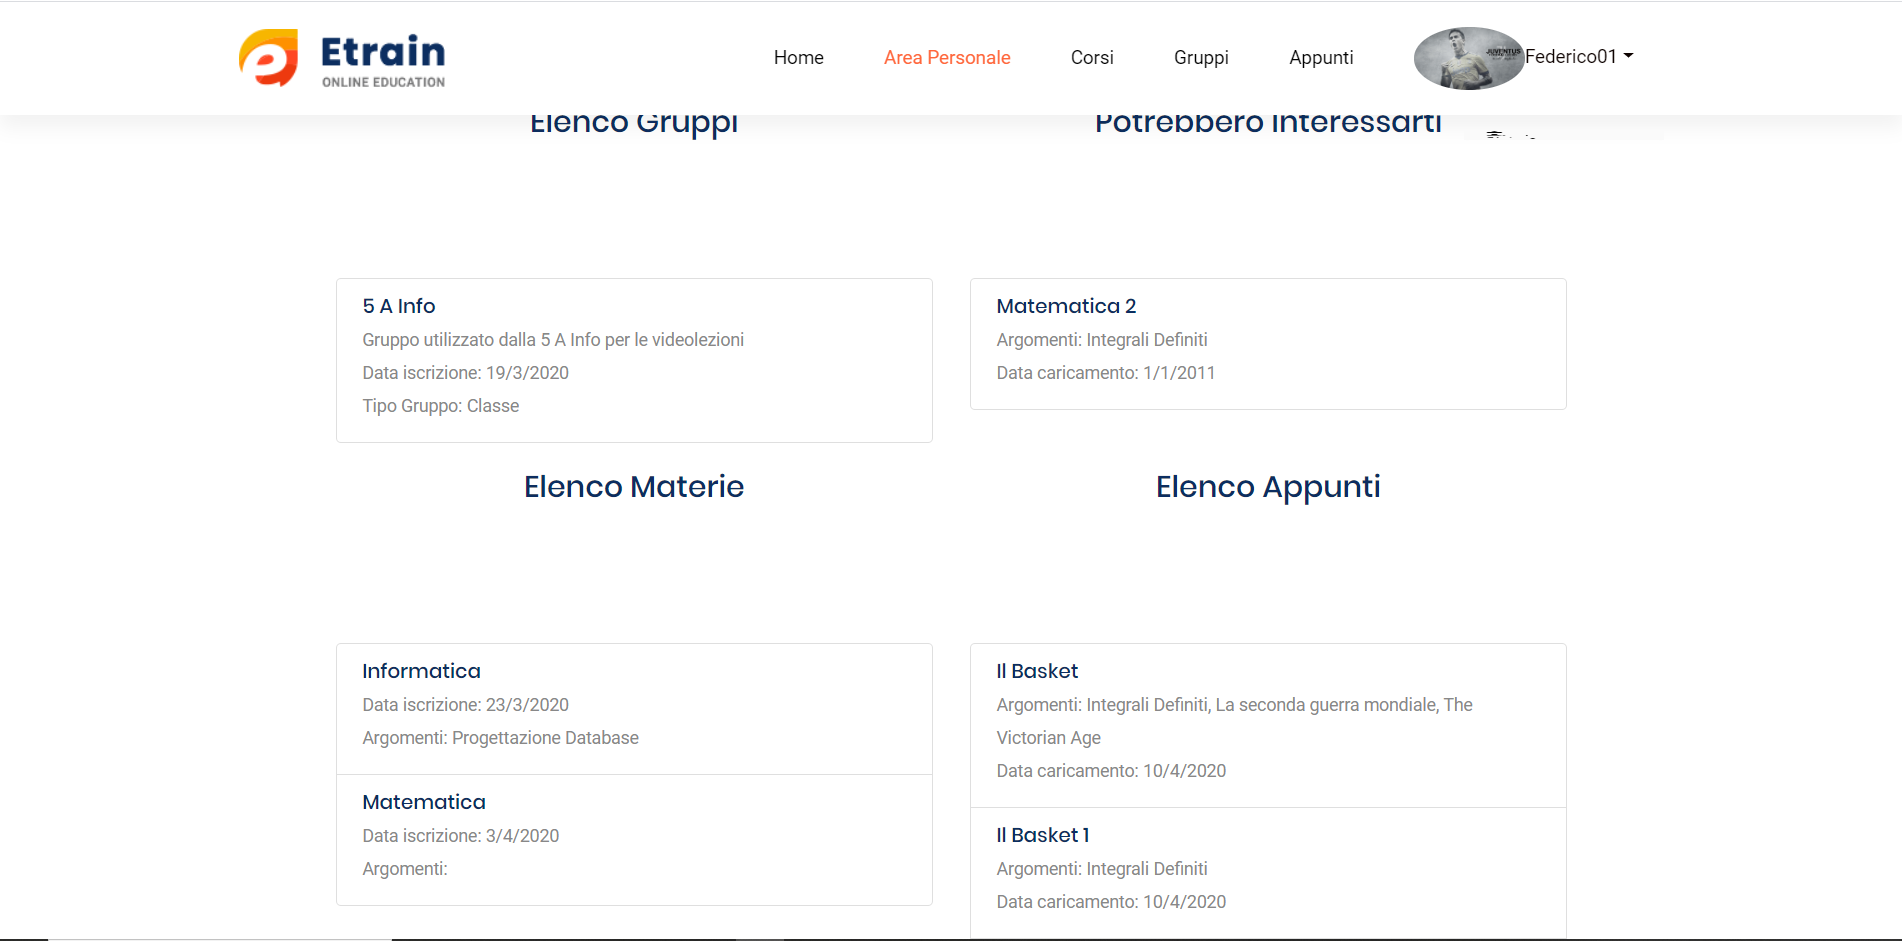
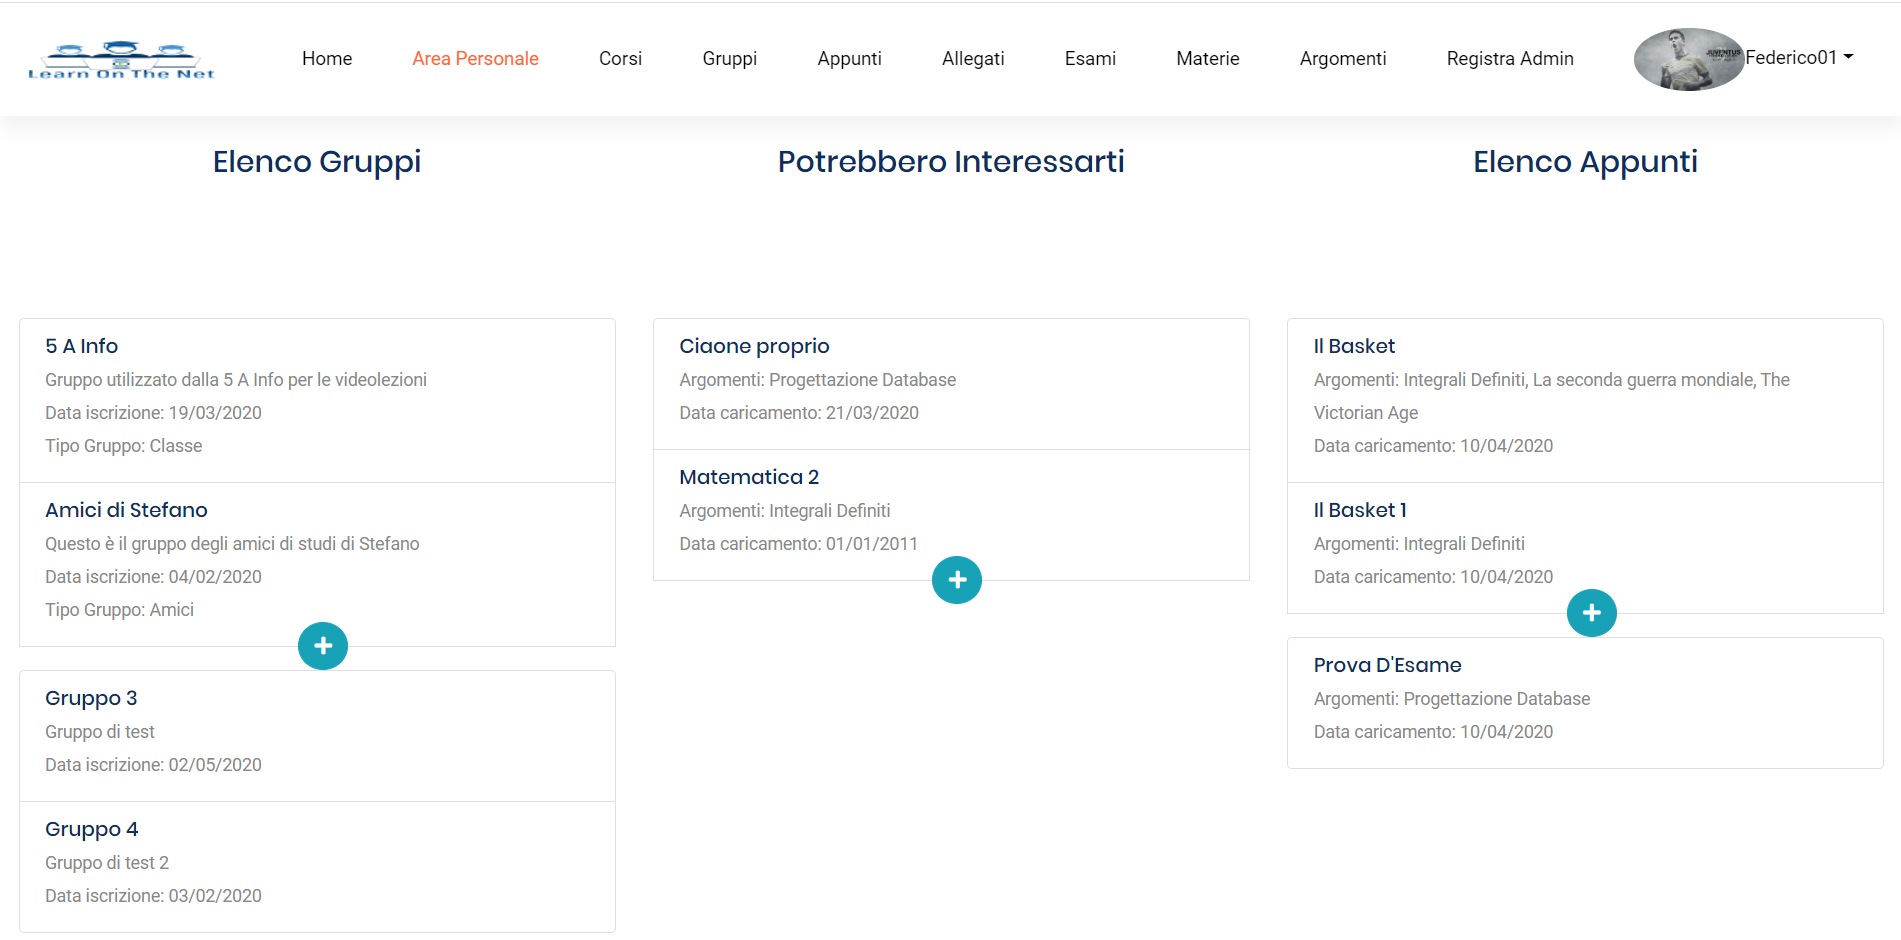
"Revisione README"

diff --git a/static/corsi.html b/static/corsi.html
@@ -181,7 +181,7 @@
                                                 </span>
                                                 <div>
                                                     <select id="tipoModuloAdd" required title="Tipo Modulo" data-live-search="true"
-                                                        data-live-search-placeholder="Cerca Tipo Modulo">
+                                                        data-live-search-placeholder="Cerca Tipo Modulo" data-width="100%">
                                                     </select>
                                                 </div>
                                             </div>
@@ -192,8 +192,8 @@
                                                     <i class="fas fa-book"> </i>
                                                 </span>
                                                 <div>
-                                                    <select id="materiaCorso" required title="Materia" data-live-search="true"
-                                                        data-live-search-placeholder="Cerca Materia">
+                                                    <select id="materiaCorso" class="single-input" required title="Materia" data-live-search="true"
+                                                        data-live-search-placeholder="Cerca Materia" data-width="100%">
                                                     </select>
                                                 </div>
                                             </div>

diff --git a/README.md b/README.md
@@ -1,13 +1,14 @@
 # LearnOnTheNet
 
-![](/Immagini/Home_1.PNG)
+![](/Immagini/Home.PNG)
 
 ## Descrizione:
-Piattaforma di e-learning che consente di seguire, individualmente o come parte di un gruppo, corsi relativi a determinati argomenti. 
+Piattaforma di e-learning che consente di seguire, individualmente o come parte di un gruppo, corsi relativi a determinati argomenti, parte di una serie di materie. 
 Ogni corso può prevedere degli esami finali. 
 Il corso è composto da appunti caricati per ogni materia dagli utenti. 
-Ogni appunto può possedere degli allegati ed è possibile richiedere lettura automatica dell’appunto. 
-Ogni corso è moderato da dei moderatori che hanno il compito di controllare gli appunti e gli allegati caricati sul corso e verificare che siano inerenti all'argomento su cui è incentrato il corso.
+Ogni appunto possiede degli allegati in diversi formati ed è possibile richiedere lettura automatica degli allegati .pdf e .docx 
+Ogni corso è moderato da dei moderatori, impostati dall'organizzazione/community in possesso della piattaforma, che hanno il compito di controllare gli appunti e gli allegati caricati sul corso e verificare che siano inerenti all'argomento su cui è incentrato il corso.
+Tra i compiti dei moderatori ci sono anche il controllo degli argomenti associati ad una materia e l'inserimento, modifica o eliminazione delle materie.
 
 ## Autori: Federico Giacardi e Stefano Fontana
 
@@ -19,17 +20,36 @@ Ogni corso è moderato da dei moderatori che hanno il compito di controllare gli
 * jQuery
 * Ajax
 * Node.js
+* Express
 * [IBM Watson Text to speech](https://www.ibm.com/it-it/cloud/watson-text-to-speech)
 * MongoDB (Database hostato su cloud [Atlas](https://www.mongodb.com/cloud/atlas))
+* Mongoose
+* [Bootstrap Select (sostituisce il plugin di base del tema per gestire le select)](https://developer.snapappointments.com/bootstrap-select/)
+
+## Note sulle tecnologie:
+Data la difficoltà di realizzare ed addestrare un modello capace di effettuare la lettura dei documenti, si è deciso di utilizzare il servizio di Text to Speech sviluppato da IBM e reso disponibile sul loro cloud.
+Si è deciso di utilizzare il DBMS NoSql MongoDB, sia per la familirità con il suo utilizzo sviluppata durante gli esercizi in classe, che ha evitato tempi e difficoltà aggiuntive, sia per la facilità di integrazione con Node.js.
+Abbiamo poi deciso di utlizzare la libreria di Object Data Modelling Mongoose per definire uno schema meno restrittivo di quello imposto da DBMS relazionali, ma utile per validare i dati caricati nel DB e, soprattutto, per definire delle relazioni le quali, pur non essendo paragonabili a quelle dei DBMS relazionali, consentono di gestire molto bene i collegamenti tra tabelle presenti nel nostro DB.
+La possibilità di creare campi vettoriali si è poi rivelata molto comoda per determinati aspetti, come la gestione delle domande di un esame, della realtà da noi gestita.
+La familirità di utilizzo con Mongo e le possiblità offerte da Mongoose ci hanno fatto propendere per l'utilizzo di un DBMS NoSql invece di un DBMS relazionale.
+Si è deciso di sostituire il plugin per la gestione delle select presente nel tema poichè quest'ultimo non presentava la possibilità di gestire una selezione multipla.
+
+## Database:
+Pur non essendo il nostro DB relizzato secondo il modello relazionale, abbiamo ritenuto opportuno relizzarne uno schema riassuntivo.
+Si noti la presenza di alcune tabelle, caratterizzate dalla sigla temp, nelle quali vengono memorizzati appunti, argomenti e moduli in attesa di essere da approvati dai moderatori.
+![](/Immagini/SchemaDB.PNG)
 
 ## Piattaforma di Hosting: [Heroku](https://www.heroku.com/)
 
 ## Versione:
-Progetto in fase di sviluppo
+0.1
+
+## Licenza:
+Progetto rilasciato con licenza [Apache License 2.0](LICENSE)
 
 ## Sezioni Sito:
 * Home: Pagina di presentazione del sito con breve descrizione, elenco dei principali servizi offerti, statistiche di utilizzo e recensioni. Pagina relizzata da Giacardi.
-![](/Immagini/Home_1.PNG)
+![](/Immagini/Home.PNG)
 * Registrati: Sezione con form di iscrizione. Una volta completata la registrazione si viene re-indirizzati alla pagina di login. Pagina relizzata da Giacardi.
 ![](/Immagini/Registrati.PNG)
 * Login: Pagina con form di login che richiede l'inserimento di Username e Password. Qualora il login vada a buon fine, si viene re-indirizzati sulla propria area personale. Pagina relizzata da Giacardi.
@@ -41,7 +61,7 @@ Qualora i dati inseriti siano corretti verrà inviata una mail con un link al qu
 ![](/Immagini/ReimpostaPassword.PNG)
 ![](/Immagini/ConfermaModifcaPwd.PNG)
 * Area Personale: La pagina contiene un calendario sul quale sono segnati moduli, lezioni ed esami svolti sia individualmente sia come parte di gruppi. Sono indicate le prove scadute (non completate in tempo), quelle programmate e quelle completate in passato. Cliccando sull'evento sarà possibile visualizzarne il dettaglio.
-Più in basso sono indicati i gruppi a cui l'utente è iscritto, i corsi che potrebbero interessargli, basandosi su quelli da lui svolti di recente, le materie moderate e gli appunti caricati. Cliccando sui box mostrati sarà possibile accedere alle rispettive pagine di dettaglio. Attualmente si sta implementando un meccanismo di "mostra di più" per comprimere la visualizzazione e mostrare tutti i dati solo su richiesta dell'utente. Pagina relizzata da Giacardi.
+Più in basso sono indicati i gruppi a cui l'utente è iscritto, i corsi che potrebbero interessargli, basandosi su quelli da lui svolti di recente e gli appunti caricati. Cliccando sui box mostrati sarà possibile accedere alle rispettive pagine di dettaglio. E' stato implementato un meccanismo di "mostra di più" per comprimere la visualizzazione e mostrare tutti i dati solo su richiesta dell'utente. Pagina relizzata da Giacardi.
 ![](/Immagini/dashborad.PNG)
 ![](/Immagini/DatiDashboard.PNG)
 * Corsi: Pagina che consente di ricercare e visualizzare i corsi presenti nel Database. Effettuata la ricerca vengono visualizzati in dei box alcuni dati riepilogativi di ogni corso che corrisponde ai filtri di ricerca, cliccando sul nome del corso sarà possibile accedere alla sua pagina di dettaglio dove sono presenti tutti i dettagli del corso. La corrente pagina presenta al fondo un form che permette l'inserimento di un nuovo corso specificandone il tipo (scolastico, privato, ecc.) tra quelli presenti su Database e la materia di appartenenza tra quelle presenti sul Database. Pagina realizzata da Fontana.
@@ -63,34 +83,44 @@ Più in basso sono indicati i gruppi a cui l'utente è iscritto, i corsi che pot
 * Appunti: Pagina che consente di ricercare e visualizzare gli appunti presenti nel Database. Al termine di ogni ricerca sono visualizzati in un box alcuni dati di ogni appunto individuato, cliccando sul box sarà possibile accedere alla pagina con tutti i dettagli dell'appunto e le funzioni di modifica, eliminazione e lettura. La pagina presente anche un form per l'inserimento di un nuovo appunto con la possibilità di caricare nuovi allegati o di utilizzare quelli presenti nel Database. Pagina relizzata da Giacardi.
 ![](/Immagini/RicercaAppunti.PNG)
 ![](/Immagini/InserimentoAppunti.PNG)
-* Dettaglio Appunto: Pagina che consente di visualizzare i dettagli dell'appunto selezionato. Qualora l'utente loggato sia colui che ha effettuato il caricamento dell'appunto, verranno visualizzati un pulsante per eliminare l'appunto e uno per modificarlo. Tale pulsante aprirà, nella medesima pagina, un form con i dati dell'appunto che potranno essere modificati. Il pulsante lettura consente di aprire un form che consente di indicare quali allegati dell'appunto leggere (sono ammessi, per ora, solo file PDF, DOCX e TXT), la lingua degli allegati da leggere e la voce di lettura. All'invio del form viene effettuata una chiamata al server il quale, qualora la lettura vada a buon fine, risponde restituendo i file .wav creati che l'utente può scaricare. Il servizio di Text to speech è basato sul servizio IBM Watson fruibile gratuitamente fino a 10000 caratteri mensili via cloud IBM. Al momento si sta valutando l'inserimento nel form di un campione audio di prova della voce scelta. Il problema è legato al fatto che IBM non offre un web service con l'elenco dei campioni che andrebbero scaricati su server. Per estrarre il contenuto del file da leggere, andando anche ad escludere anche eventuali immagini, si è dovuto realizzare un modulo, denominato FileReader, che effettui, in modo asincrono tramite dei Promise, l'estrazione del contenuto combinando le funzionalità di due moduli, [PdfReader](https://www.npmjs.com/package/pdfreader) e [node-stream-zip](https://www.npmjs.com/package/node-stream-zip).
+* Dettaglio Appunto: Pagina che consente di visualizzare i dettagli dell'appunto selezionato. Qualora l'utente loggato sia colui che ha effettuato il caricamento dell'appunto, verranno visualizzati un pulsante per eliminare l'appunto e uno per modificarlo. Tale pulsante aprirà, nella medesima pagina, un form con i dati dell'appunto che potranno essere modificati. Il pulsante lettura consente di aprire un form che consente di indicare quali allegati dell'appunto leggere (sono ammessi, per ora, solo file PDF, DOCX e TXT), la lingua degli allegati da leggere e la voce di lettura. All'invio del form viene effettuata una chiamata al server il quale, qualora la lettura vada a buon fine, risponde restituendo i file .wav creati che l'utente può scaricare. Il servizio di Text to speech è basato sul servizio IBM Watson fruibile gratuitamente fino a 10000 caratteri mensili via cloud IBM. 
+Per estrarre il contenuto del file da leggere, andando anche ad escludere anche eventuali immagini, si è dovuto realizzare un modulo, denominato FileReader, che effettui, in modo asincrono tramite dei Promise, l'estrazione del contenuto combinando le funzionalità di due moduli, [PdfReader](https://www.npmjs.com/package/pdfreader) e [node-stream-zip](https://www.npmjs.com/package/node-stream-zip).
 Il contenuto così estratto viene poi passato a IBM Watson per la lettura.
+Il file .wav così ottenuto viene salvato nella cartella static/audio e al client viene restituito il percorso del file salvato nel session storage.
+Quando l'utente decide di eseguire il download del file, premendo l'apposito bottone, viene chimato un listener che effettua il download, tramite il metodo download dell'oggetto response, del file e provvede poi ad eliminarlo tramite il metodo unlink del modulo file system, nativo di Node.
 Per poter usufruire dei servizi del cloud IBM in NodeJs si è utlizzata la [SDK disponibile su GitHub](https://github.com/watson-developer-cloud/node-sdk).
-Si prevede di implementare l'eliminazione dei campioni audio una volta scaricati. Pagina relizzata da Giacardi.
+Pagina relizzata da Giacardi.
 ![](/Immagini/DettaglioAppunto.PNG)
 ![](/Immagini/TTSAppunto.PNG)
 ![](/Immagini/PaginaDownloadTTS.PNG)
 ![](/Immagini/DownloadTTS.PNG)
-* Allegati: Pagina che consente di visualizzare una tabella con gli allegati presenti sul server con la possiblità di filtrare i dati nella tabella, è inoltre possibile scaricare gli allegati presenti con un apposito pulsante. Pagina relizzata da Giacardi.
+* Allegati: Pagina che consente di visualizzare una tabella con gli allegati presenti sul server con la possiblità di filtrare i dati nella tabella, è inoltre possibile scaricare gli allegati presenti o, nel caso di alcuni formati come il pdf, visualizzarli direttamente nel browser con un apposito pulsante. 
+Pagina relizzata da Giacardi.
 ![](/Immagini/Allegati.PNG)
-* Modifica Profilo: Pagina raggiungibile dalla navbar che consente di modificare le impostazioni relative al proprio profilo (ad eccezione della password, modificabile come descritto in precedenza). Pagina relizzata da Giacardi.
+* Modifica Profilo: Pagina raggiungibile dalla navbar che consente di modificare le impostazioni relative al proprio profilo (ad eccezione della password, reimpostabile come descritto in precedenza). Pagina relizzata da Giacardi.
 ![](/Immagini/ModificaProfilo.PNG)
+* Argomenti: Pagina accessibile solo da moderatori. Presenta l'elenco degli argomenti moderati dall'utente autenticato, con la possibilità di eliminazione.
+E' presente poi una tabella con l'elenco degli appunti collegati agli argomenti in attesa di approvazione, che possono essere accettati oppure essere rifiutati. Nel caso in cui vengano accettati, gli appunti vengono trasferiti dalla collection AppuntiTemp alla collection Appunti.
+La tabella sottostante presenta un elenco di moduli collegati agli argomenti in attesa di approvazione, che possono essere accettati oppure essere rifiutati. Nel caso in cui vengano accettati, i moduli vengono trasferiti dalla collection ModuliTemp alla collection Moduli.
+Queste due tabelle sono visualizzate solo qualora vi siano Appunti o Moduli in attesa di approvazione.
+Infine, è presente un form per l'aggiunta di un nuovo argomento, che verrà inserito in una collection ArgomentiTemp in attesa di essere approvati dal moderatore della materia.
+![](/Immagini/Argomenti_1.PNG)
+![](/Immagini/Argomenti_2.PNG)
+![](/Immagini/Argomenti_3.PNG)
+![](/Immagini/Argomenti_4.PNG)
+* Materie: Pagina accessibile solo da moderatori. Presenta l'elenco delle materie moderate dall'utente autenticato, con la possibilità di eliminazione e di modifica.
+E' presente poi una tabella con l'elenco degli Argomenti in attesa di approvazione.
+Nel caso in cui vengano accettati, gli argomenti vengono trasferiti dalla collection ArgomentiTemp alla collection Argomenti.
+Infine, è presente un form per l'aggiunta di una nuova materia.
+![](/Immagini/Materie_1.PNG)
+![](/Immagini/Materie_2.PNG)
+![](/Immagini/Materie_3.PNG)
 
 ## Aggiunte Previste fino al 10/05/2020
-* Aggiunta sezione moderatore materia con possibilità di accettare o rifiutare gli appunti caricati. Per questo punto verrà realizzata una pagina di dettaglio materia collegata all'area personale.
 * Aggiunta sezione per svolgimento esame.
-* Si sta valutando l'opportunità di realizzare una pagina con la possibilità di visualizzare le materie caricate sul sito.
-
-## Aggiunte Previste oltre il 10/05/2020
-* Implementazione delle funzionalità mancanti indicate nelle varie sezioni.
-* Revisioni del codice.
-* Revisione grafica delle pagine.
-* Deploy su Heroku e test di funzionamento e carico
-
-## Stima conclusione lavori
-Orientativamente si ritiene di poter completare i lavori entro il 17/05/2020. In base a quanto impiegato per implementare le funzionalità della sezione "Aggiunte Previste" e alla durata della fase di deploy e test (ci sono moduli di NodeJs, come il NodeMailer, che potrebbero dare problemi) si potrebbe anche terminare in anticipo o poco oltre la data stabilita (di sicuro non oltre il 24/05/2020).
 
 ## Problemi riscontrati
 La relizzazione della funzionalità di lettura automatica del file si è rivelata molto ostica.
 Non essendo disponibile un modulo per l'estrazione del contenuto del file capace di offrire buone prestazioni su tipi di file diversi si è dovuto scrivere un nostro modulo, FileReader, che combini un modulo per la lettura di PDF con uno per la lettura dei DOCX. Particolarmente complicata si è poi rivelata la combinazione dell'estrazione del file con la sua lettura tramite IBM Watson a causa delle molte operazioni asincrone da coordinare. Il meccanismo risulta ad oggi funzionante, tuttavia siamo consci del fatto che sia piuttosto limitato, soprattuto per i pochi tipi di file supportati.
 Molto complessa, sempre per il dover andare a coordinare più operazioni asincrone, si è rivelata la funzionalità di modifica dell'appunto. Si tratta della funzione che ha richiesto più tempo ma ad oggi risulta funzionante.
+Anche la gestione dell'eliminazione di materie e argomenti si è rivelata complessa, per la necessità di intervenire su più tabelle collegate. Anche questa problematica è stata superata.
